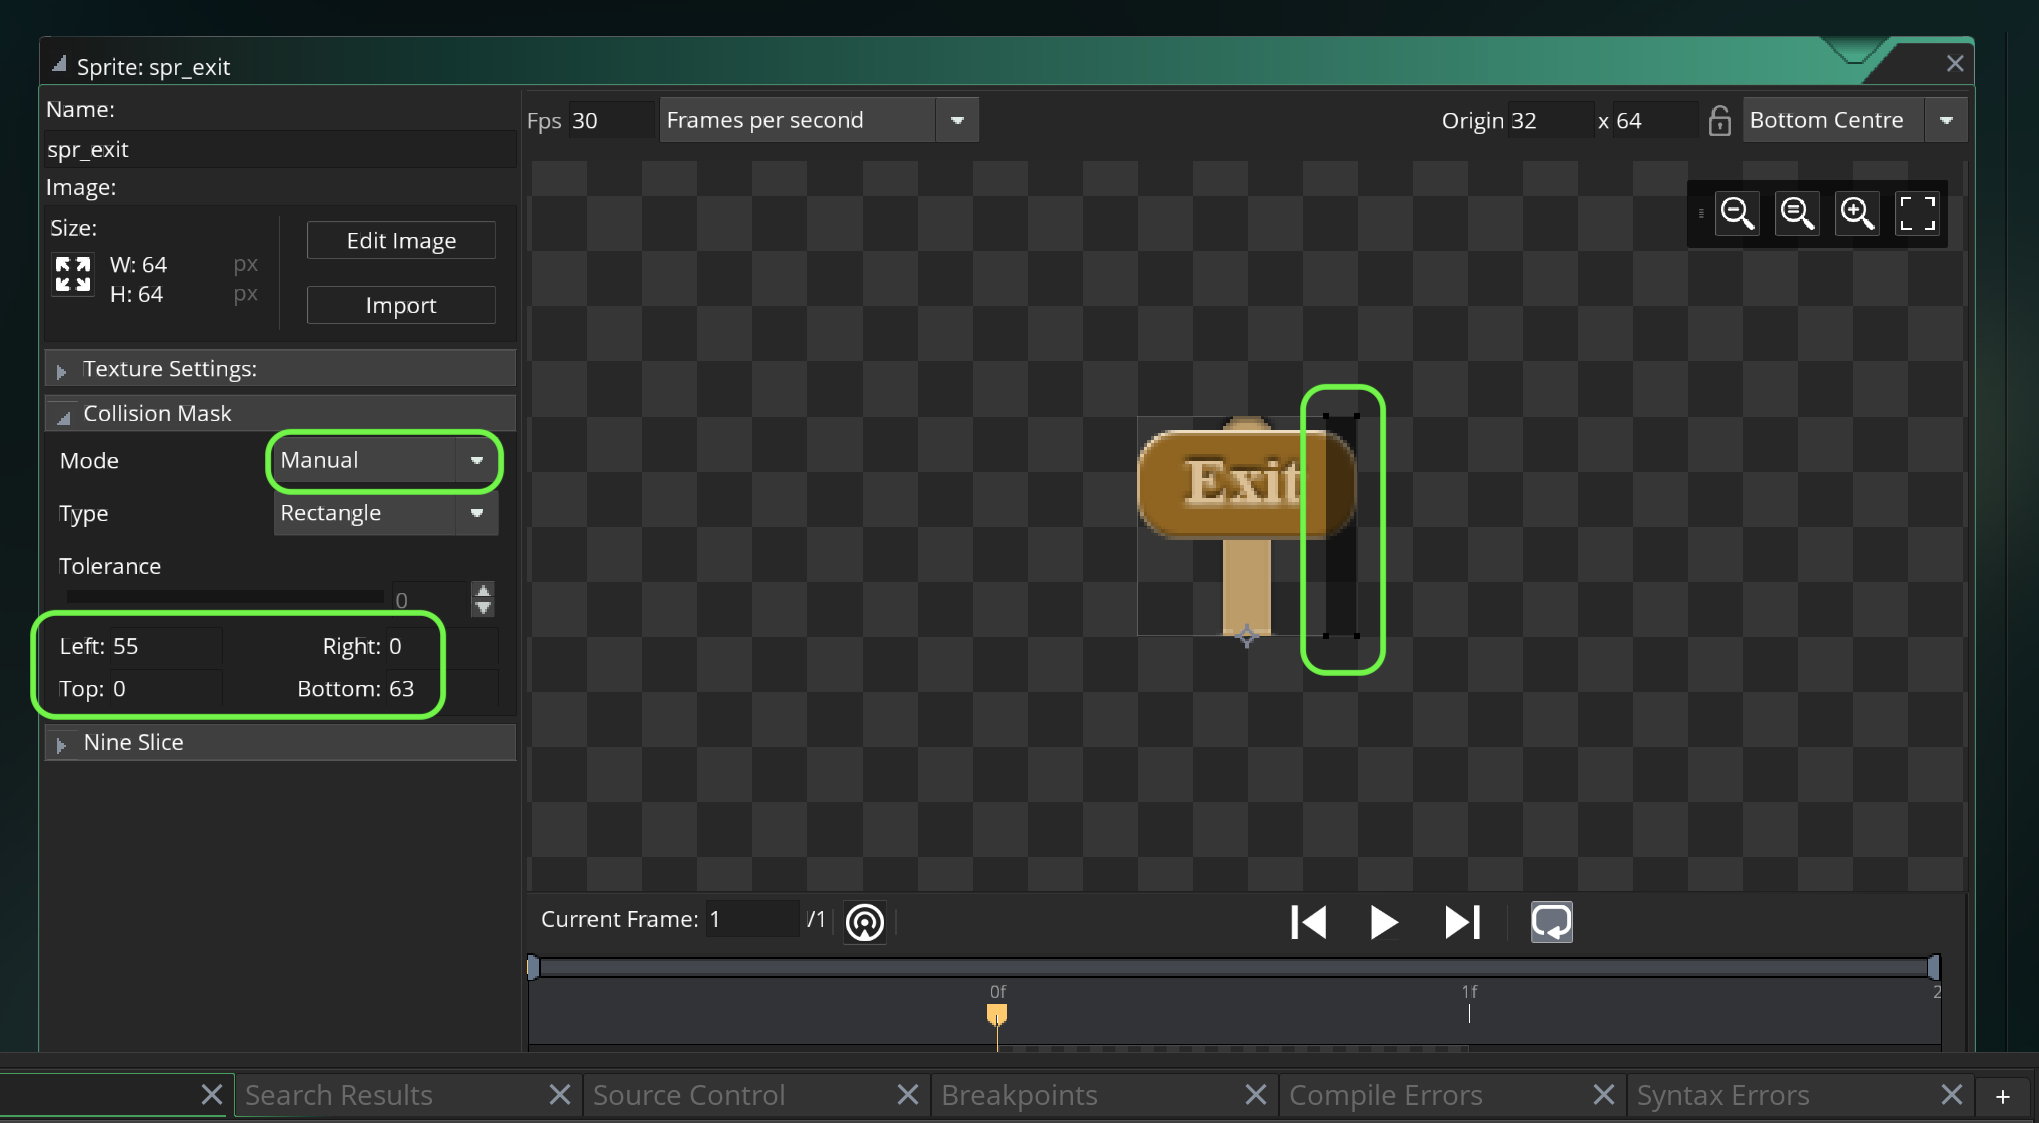
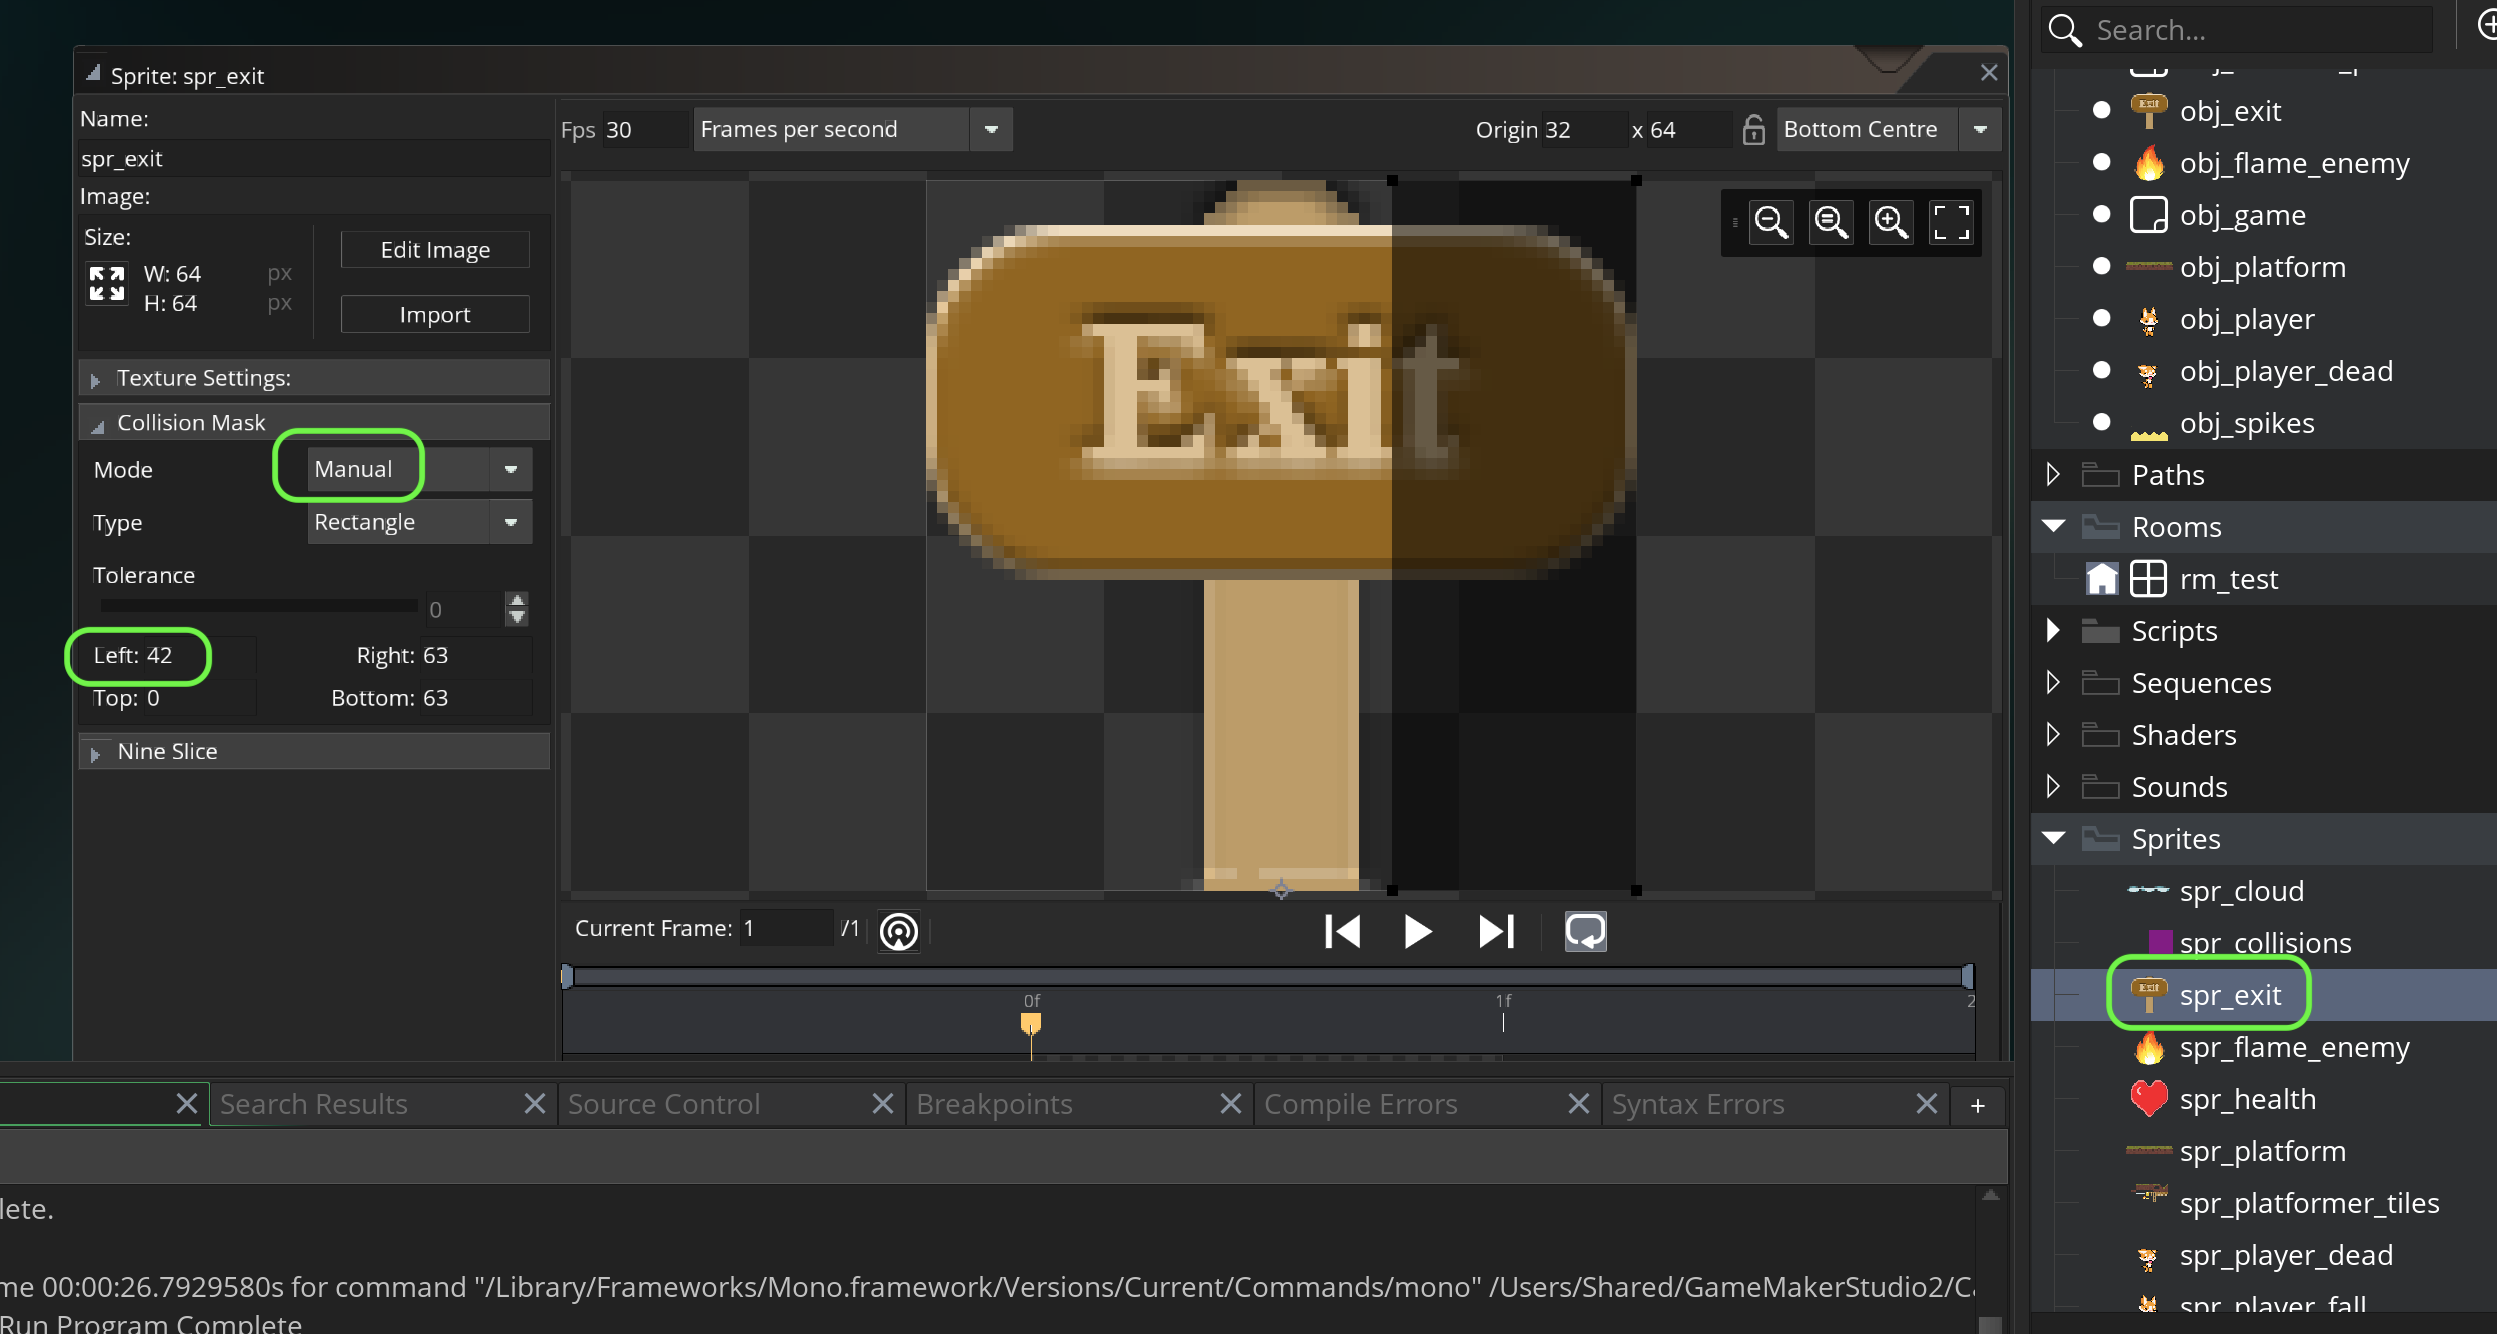
porting walk through

Changed region(s): [[0.0, 0.0, 1.0, 1.0], [0.0, 0.0312, 0.2472, 0.6857], [0.0618, 0.8103, 0.1545, 0.8415]]

diff --git a/rooms/README.md b/rooms/README.md
@@ -23,7 +23,7 @@ Now lets download an exit sign [spr_exit.png](images/spr_exit.png). *Right click
 
 ##### `Step 2.`\|`FHIU`|:small_blue_diamond: :small_blue_diamond: 
 
-Change the **Collision Mask** to `Manual` and adjust **Left** to `55`. We only want the player to trigger the room change when they are well into the exit sign.
+Change the **Collision Mask** to `Manual` and adjust **Left** to `42`. We only want the player to trigger the room change when they are well into the exit sign.
 
 ![adjust collision mask](images/collisionMask.png)
 
@@ -31,15 +31,17 @@ Change the **Collision Mask** to `Manual` and adjust **Left** to `55`. We only w
 
 ##### `Step 3.`\|`SPCRK`|:small_blue_diamond: :small_blue_diamond: :small_blue_diamond:
 
-Open up **obj_player | Create** event and add a **player_state** `change_level`.
+*Right click* on **Objects** and select **New | Object** and name it `obj_exit`. Set the **Sprite** to `spr_exit`.
 
-![add change_level state](images/addChangeLevelState.png)
+![add obj_exit with spr_exit](images/objExit.png)
 
 <img src="https://via.placeholder.com/500x2/45D7CA/45D7CA" alt="drawing" height="2px" alt = ""/>
 
 ##### `Step 4.`\|`SPCRK`|:small_blue_diamond: :small_blue_diamond: :small_blue_diamond: :small_blue_diamond:
 
-![alt_text](images/.png)
+Open up **obj_player | Create** event and add a **player_state** `change_level`.
+
+![add change_level state](images/addChangeLevelState.png)
 
 <img src="https://via.placeholder.com/500x2/45D7CA/45D7CA" alt="drawing" height="2px" alt = ""/>
 
